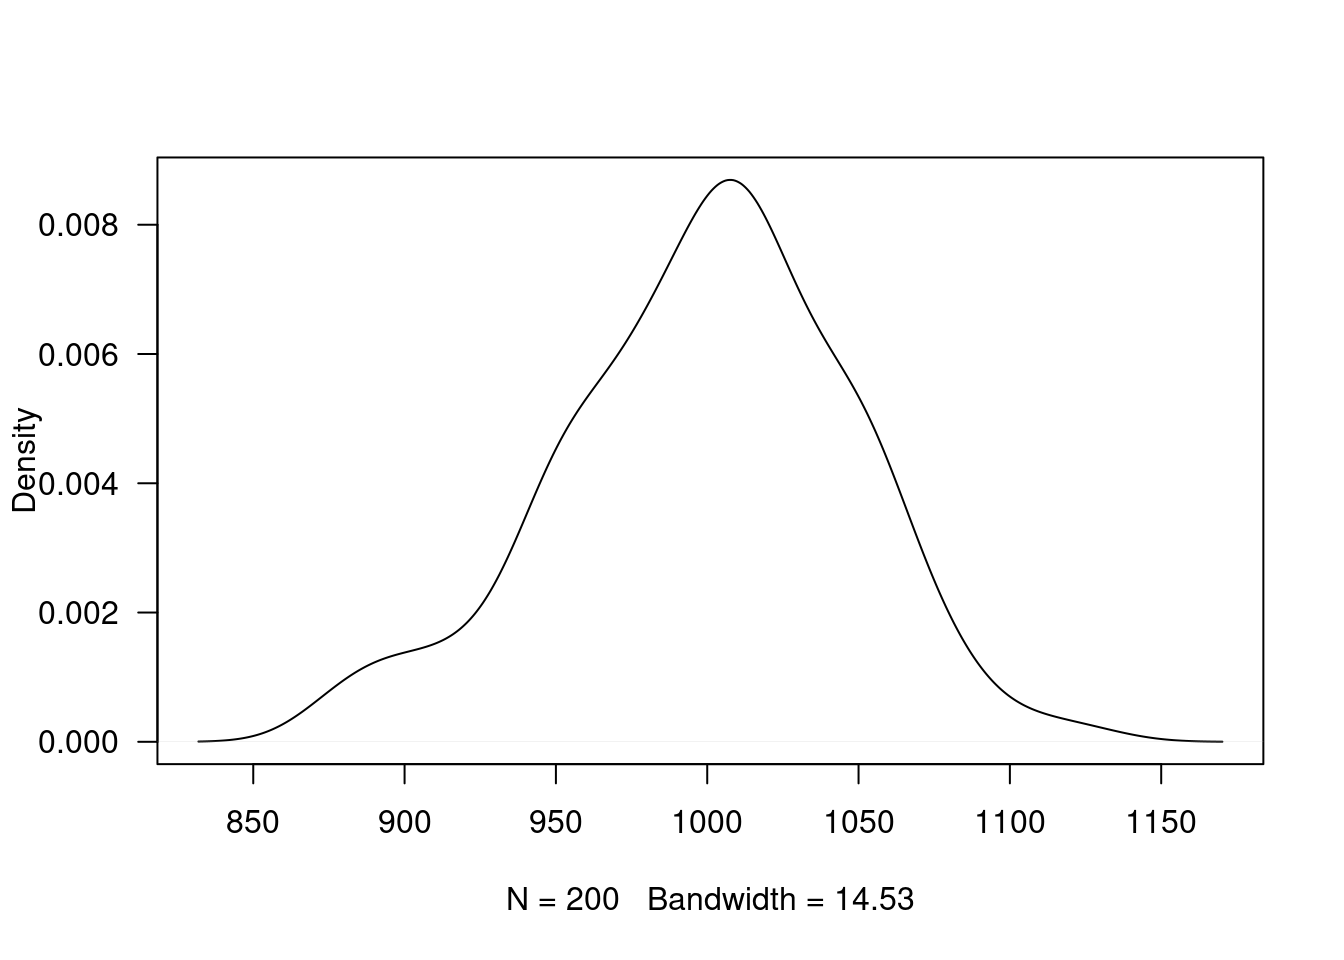
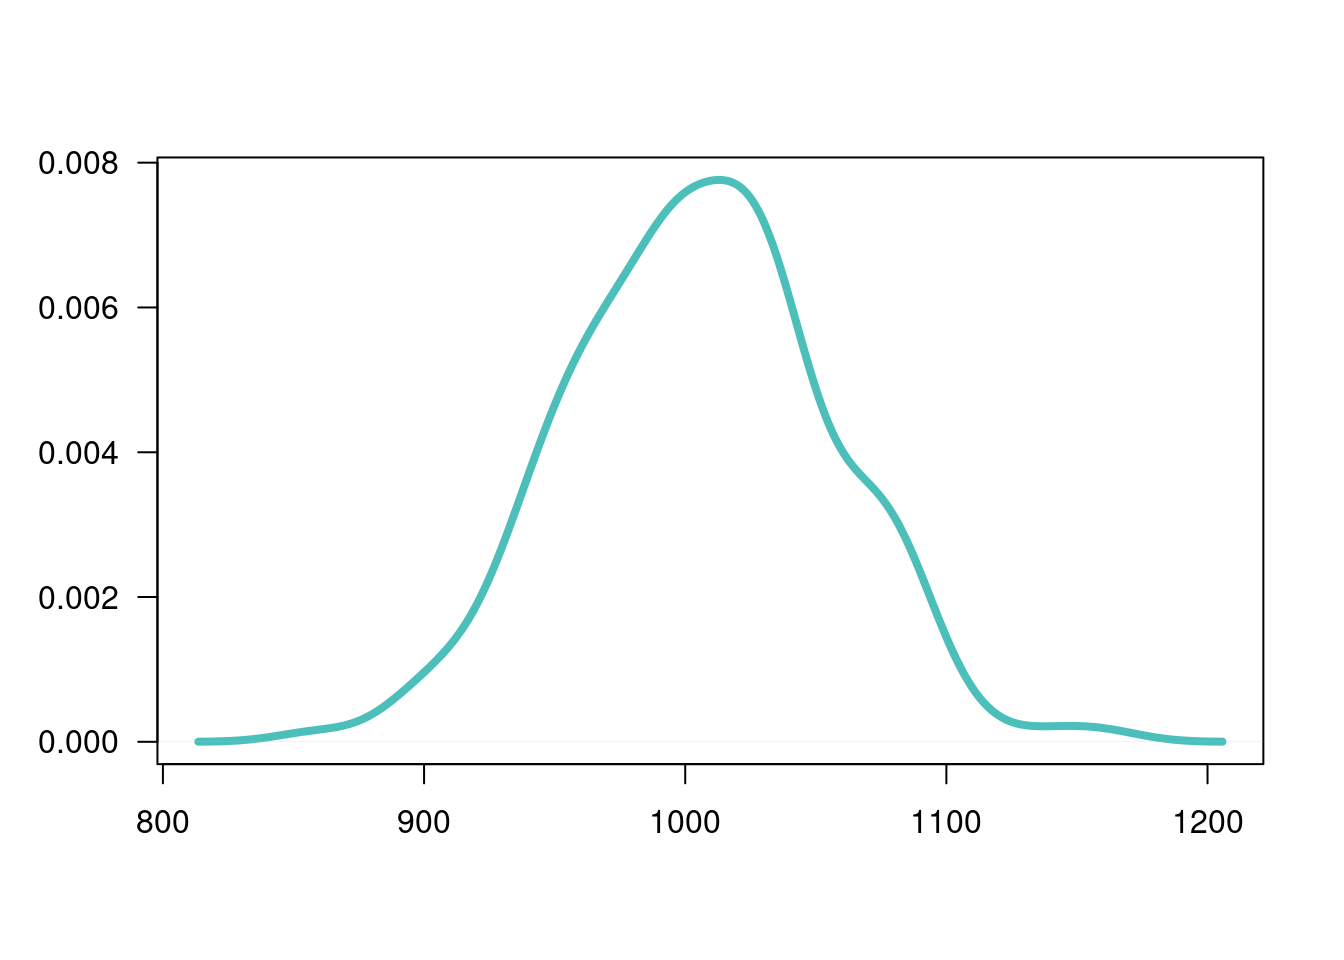
ajustes guia 4.3

diff --git a/Guia403.html b/Guia403.html
@@ -684,6 +684,7 @@ Ademas del material suministrado contaran con el acompañamiento del profesor en
 </div>
 <div id="recursos-1" class="section level1">
 <h1><strong>Recursos</strong></h1>
+<p><img src="img/decision.png" /></p>
 <p><br/><br/></p>
 <div id="introducción-1" class="section level2">
 <h2><strong>Introducción</strong></h2>
@@ -756,37 +757,68 @@ Ademas del material suministrado contaran con el acompañamiento del profesor en
 </tr>
 <tr class="odd">
 <td align="left"></td>
-<td align="left"><img src="img/donar.jpg" /></td>
-<td align="left"></td>
-</tr>
-<tr class="even">
-<td align="left"></td>
 <td align="left">P(Error tipo I) = <span class="math inline">\(\alpha\)</span></td>
 <td align="left"><span class="math inline">\(1-\beta\)</span> : Potencia</td>
 </tr>
-<tr class="odd">
+<tr class="even">
 <td align="left">No rechazar <span class="math inline">\(Ho\)</span></td>
 <td align="left"><strong>Decisión correcta</strong></td>
 <td align="left"><strong>Error tipo II</strong></td>
 </tr>
-<tr class="even">
+<tr class="odd">
 <td align="left"></td>
 <td align="left"></td>
 <td align="left">P(Eror tipo II) =<span class="math inline">\(\beta\)</span></td>
 </tr>
-<tr class="odd">
+<tr class="even">
 <td align="left"></td>
 <td align="left"></td>
-<td align="left"><img src="img/dopin.jpg" /></td>
+<td align="left"></td>
 </tr>
 </tbody>
 </table>
 <p>Existen dos situaciones en las que se comenten errores después de tomar una decisión:</p>
 <p><br/><br/></p>
-<p><strong>Error tipo I</strong>: Cuando se rechazamos una hipótesis nula que en realidad es verdadera. Tomando como simil la situación donde un médico desea determinar si un paciente está sano o enfermo (<span class="math inline">\(Ho\)</span>: SANO vs <span class="math inline">\(Ha\)</span>: ENFERMO), es posible que concluya que el paciente está enfermo (rechace <span class="math inline">\(Ho\)</span>) cuando en verdad esta persona esta sana. En términos de probabilidad este error se debe de representar como: <span class="math display">\[P(\text{Rechazar } Ho | Ho \text{ es verdadera})= \alpha\]</span> Para ilustrar el error tipo I, podeos acudir aun evento ocurrido a una estudiante que despues de realizar una donación de sangre fue requerida por la clinica benefactora, pues el examen que le habian practicado a la sangre donada, presentaba signos de estar infectada por epatitis c. Esto prendió las alarmas en la casa y fue llevada por la familia a que se le realizaran otros examenes para confirmar el diagnostico inicial. Las segundas pruebas evidenciaron que se trataba de un error. Este caso constituye un caso de falso positivo (Se diagnostica como enferan, cuando en verdad esta sana)</p>
+<p><strong>Error tipo I</strong>: Cuando se rechazamos una hipótesis nula que en realidad es verdadera. Tomando como simil la situación donde un médico desea determinar si un paciente está sano o enfermo (<span class="math inline">\(Ho\)</span>: SANO vs <span class="math inline">\(Ha\)</span>: ENFERMO), es posible que concluya que el paciente está enfermo (rechace <span class="math inline">\(Ho\)</span>) cuando en verdad esta persona esta sana. En términos de probabilidad este error se debe de representar como: <span class="math display">\[P(\text{Rechazar } Ho | Ho \text{ es verdadera})= \alpha\]</span></p>
+<table>
+<colgroup>
+<col width="36%" />
+<col width="63%" />
+</colgroup>
+<thead>
+<tr class="header">
+<th align="left"></th>
+<th align="left"><strong>Error tipo I</strong></th>
+</tr>
+</thead>
+<tbody>
+<tr class="odd">
+<td align="left"><img src="img/donar.jpg" /></td>
+<td align="left">Para ilustrar el error tipo I, podeos acudir aun evento ocurrido a una estudiante que después de realizar una donación de sangre fue requerida por la clinica benefactora, pues el examen que le habían practicado a la sangre donada, presentaba signos de estar infectada por epatitis c. Esto prendió las alarmas en la casa y fue llevada por la familia a que se le realizaran otros exámenes para confirmar el diagnostico inicial. Las segundas pruebas evidenciaron que se trataba de un error. Este caso constituye un caso de falso positivo (Se diagnostica como enferan, cuando en verdad esta sana)</td>
+</tr>
+</tbody>
+</table>
 <p><br/><br/></p>
 <p><strong>Error Tipo II</strong>: Cuando no se rechaza una hipótesis nula que en realidad es falsa. Utilizando el ejemplo del médico, diríamos que cuando el medico indica que el paciente esta sano, cuando esta realmente enfermo, incurre en un error frecuente cuando algunos pacientes son asintomáticos y aunque tienen la enfermedad, sus exámenes médicos salen negativos. En este caso la probabilidad se representa como:</p>
-<p><span class="math display">\[P(\text{No rechazar} Ho | Ho \text{ es falsa}) \]</span> Para ilustrar el caso del error tipo II, recurrimos a lo acontecido en el Tour de Francia, donde el ciclista estadunidence Lance Armstrong gano esta competencia seis veces de manera consecutiva y aunque fue acusado de dopin, no se le pudo comprobar. Fue solo en el 2012 cuando el mismo admitió haber usado EPO. Podemos decir que durante su vida deportiva los examenes practivados dieron negativos, estando el dopado. Este caso se cataloga como falso negativo.</p>
+<p><span class="math display">\[P(\text{No rechazar} Ho | Ho \text{ es falsa}) \]</span></p>
+<table>
+<colgroup>
+<col width="36%" />
+<col width="63%" />
+</colgroup>
+<thead>
+<tr class="header">
+<th align="left"></th>
+<th align="left"><strong>Error tipo II</strong></th>
+</tr>
+</thead>
+<tbody>
+<tr class="odd">
+<td align="left"><img src="img/dopin.jpg" /></td>
+<td align="left">Para ilustrar el caso del error tipo II, recurrimos a lo acontecido en el Tour de Francia, donde el ciclista estadunidence Lance Armstrong gano esta competencia seis veces de manera consecutiva y aunque fue acusado de dopin, no se le pudo comprobar. Fue solo en el 2012 cuando el mismo admitió haber usado EPO. Podemos decir que durante su vida deportiva los exámenes practivados dieron negativos, estando el dopado. Este caso se cataloga como falso negativo.</td>
+</tr>
+</tbody>
+</table>
 <p><br/><br/></p>
 </div>
 <div id="nivel-de-significancia-alpha" class="section level2">
@@ -1928,8 +1960,8 @@ runs.test(y)</code></pre>
     Runs Test
 
 data:  y
-statistic = -0.20102, runs = 50, n1 = 50, n2 = 50, n = 100, p-value =
-0.8407
+statistic = -1.4071, runs = 44, n1 = 50, n2 = 50, n = 100, p-value =
+0.1594
 alternative hypothesis: nonrandomness</code></pre>
 <p><strong>Conclusión</strong></p>
 <p>Como el valor-p (0.3149) es mayor al nivel de significancia, no se rechaza la hipótesis nula, no existe suficiente evidencia en la muestra que permita rechazarla, asumimos que los datos son aleatorios.</p>
@@ -1942,14 +1974,14 @@ alternative hypothesis: nonrandomness</code></pre>
 <p>Existen muchas pruebas que nos ayudan en este propósito, a continuación relacionamos algunas de ellas</p>
 <pre class="r"><code># se genera una variable aleatoria normal
 x=rnorm(200,1000,50)
-plot(density(x), main=&quot; &quot;, las=1)</code></pre>
+plot(density(x), main=&quot; &quot;, las=1, xlab = &quot; &quot;, ylab=&quot; &quot;, col=c3, lwd=4)</code></pre>
 <p><img src="Guia403_files/figure-html/unnamed-chunk-26-1.png" width="672" /></p>
 <pre class="r"><code>shapiro.test(x)</code></pre>
 <pre><code>
     Shapiro-Wilk normality test
 
 data:  x
-W = 0.98923, p-value = 0.1377</code></pre>
+W = 0.99706, p-value = 0.9712</code></pre>
 <p>Esta prueba no requiere la instalación de paquetes adicionales, pues está disponible en la configuración básica de R</p>
 <p>Como el valor-p es superior al nivel de significancia <span class="math inline">\(\alpha\)</span>, no se rechaza <span class="math inline">\(Ho\)</span>, se asume que la distribución de la variable es normal.</p>
 <p>Otras pruebas de normalidad utilizadas con frecuencia son:</p>
@@ -1961,19 +1993,19 @@ jb.norm.test(x)  # Test de normalidad de Jarque-Bera</code></pre>
     Jarque-Bera test for normality
 
 data:  x
-JB = 2.8216, p-value = 0.1995</code></pre>
+JB = 0.091806, p-value = 0.9515</code></pre>
 <pre class="r"><code>kurtosis.norm.test(x)</code></pre>
 <pre><code>
     Kurtosis test for normality
 
 data:  x
-T = 3.0034, p-value = 0.995</code></pre>
+T = 3.0787, p-value = 0.821</code></pre>
 <pre class="r"><code>skewness.norm.test(x)   </code></pre>
 <pre><code>
     Skewness test for normality
 
 data:  x
-T = -0.29094, p-value = 0.096</code></pre>
+T = 0.034718, p-value = 0.8315</code></pre>
 <pre class="r"><code># install.packages(&quot;nortets&quot;)
 library(nortest)
 
@@ -1982,13 +2014,13 @@ lillie.test(x) # Kolmogorov-Smirnov</code></pre>
     Lilliefors (Kolmogorov-Smirnov) normality test
 
 data:  x
-D = 0.072727, p-value = 0.01197</code></pre>
+D = 0.026084, p-value = 0.9844</code></pre>
 <pre class="r"><code>pearson.test(x) # chi-cuadrado de Pearson</code></pre>
 <pre><code>
     Pearson chi-square normality test
 
 data:  x
-P = 11.31, p-value = 0.6615</code></pre>
+P = 5.87, p-value = 0.9697</code></pre>
 <p><br/><br/></p>
 <p><br/><br/><br/><br/></p>
 </div>
@@ -2147,7 +2179,7 @@ P = 11.31, p-value = 0.6615</code></pre>
 <table>
 <tbody>
 <tr class="odd">
-<td align="left"><img src="img/Nota_R.png" style="width:60.0%" /></td>
+<td align="left"><img src="img/Nota_R.png" style="width:50.0%" /></td>
 <td align="left"></td>
 </tr>
 <tr class="even">
